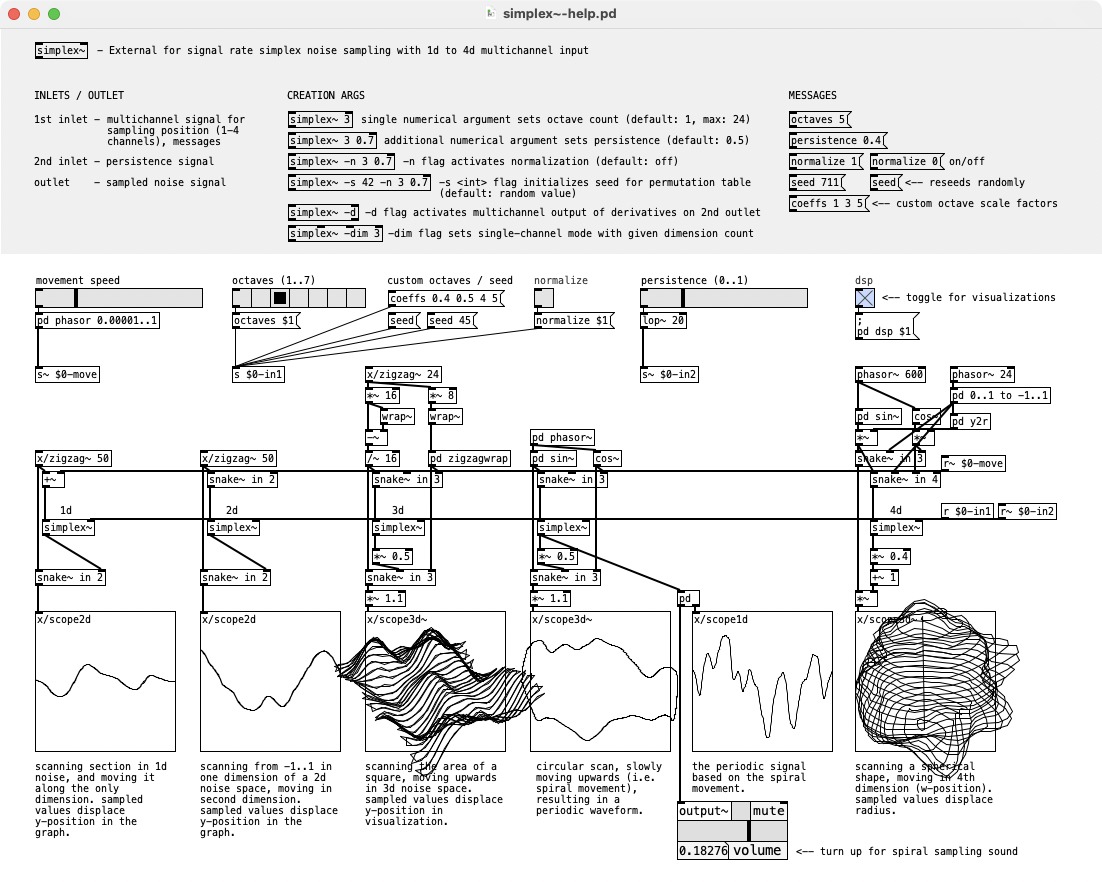
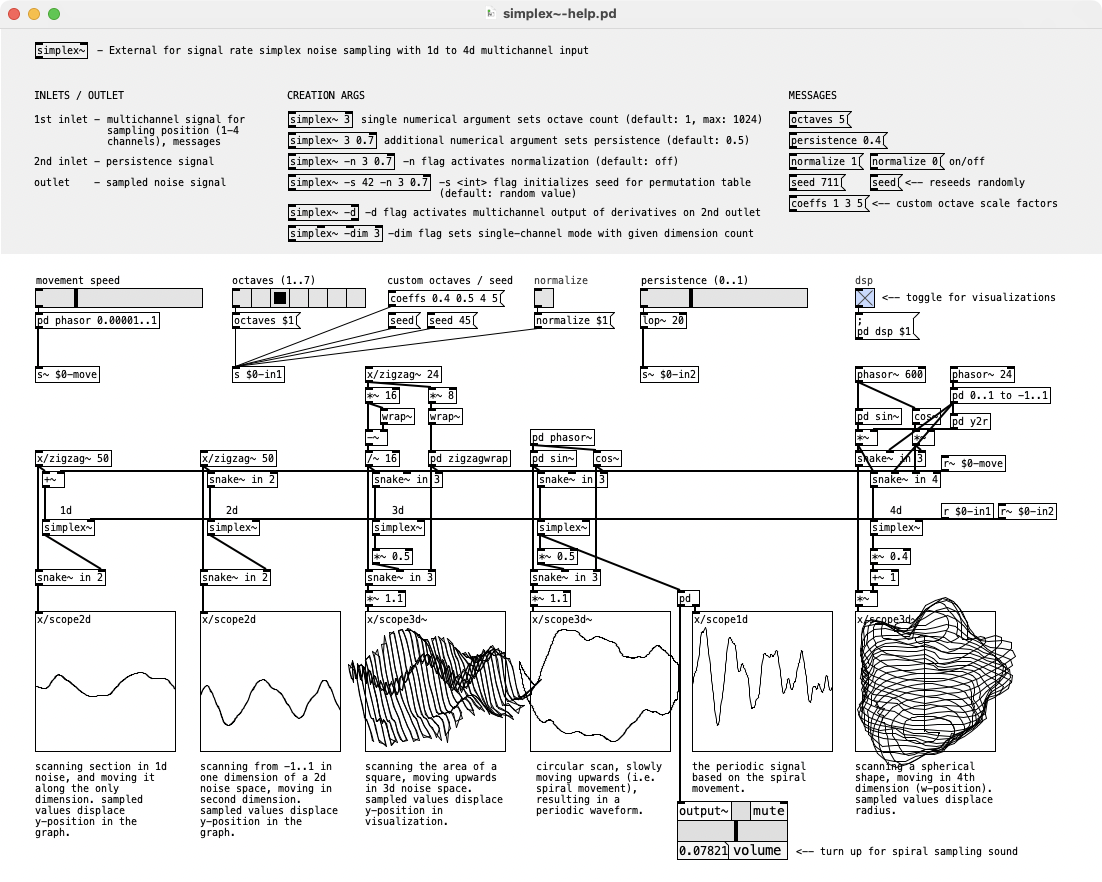
update max octave count

diff --git a/README.md b/README.md
@@ -27,7 +27,7 @@ make install
 * `-dim <int>` flag switches to single-channel mode with given dimension count
 
 #### Optional numerical arguments (must be written after the flags)
-* **first arg** sets the number of octaves (defaults to `1`, max. is `24`)
+* **first arg** sets the number of octaves (defaults to `1`, max. is `1024`)
 * **second arg** sets initial persistence (defaults to `0.5`) 
 
 ### Messages
